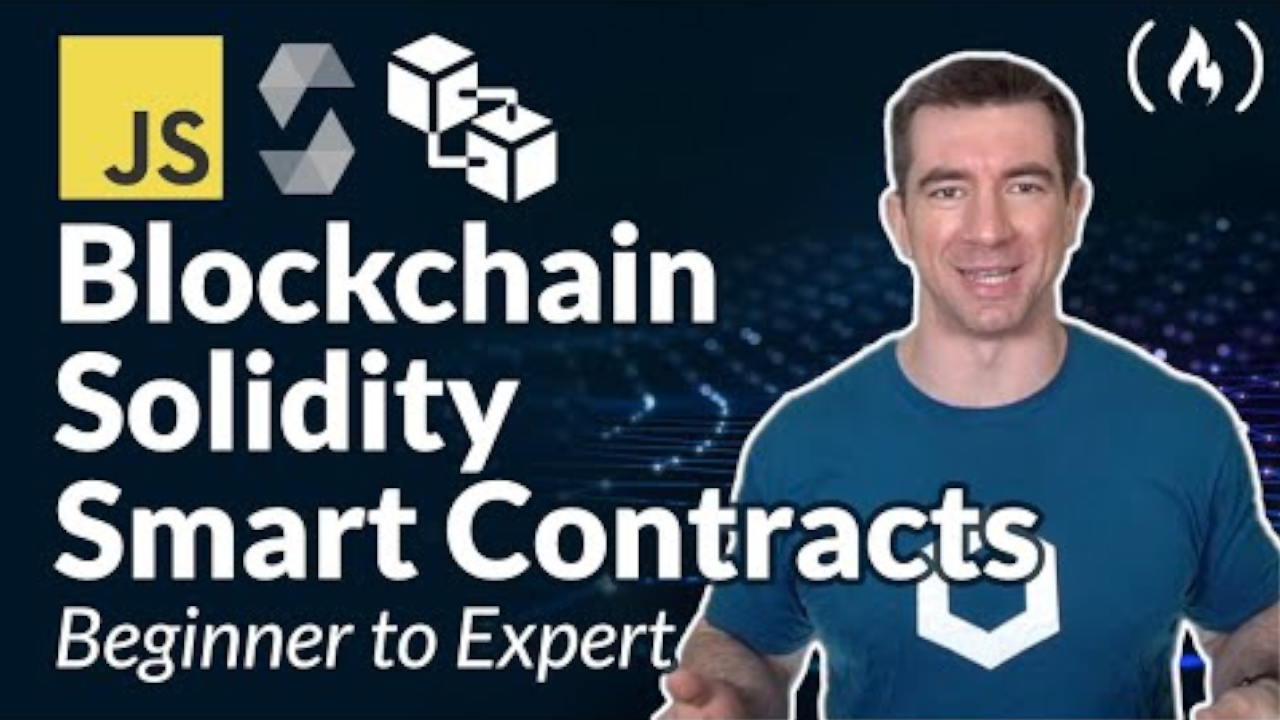
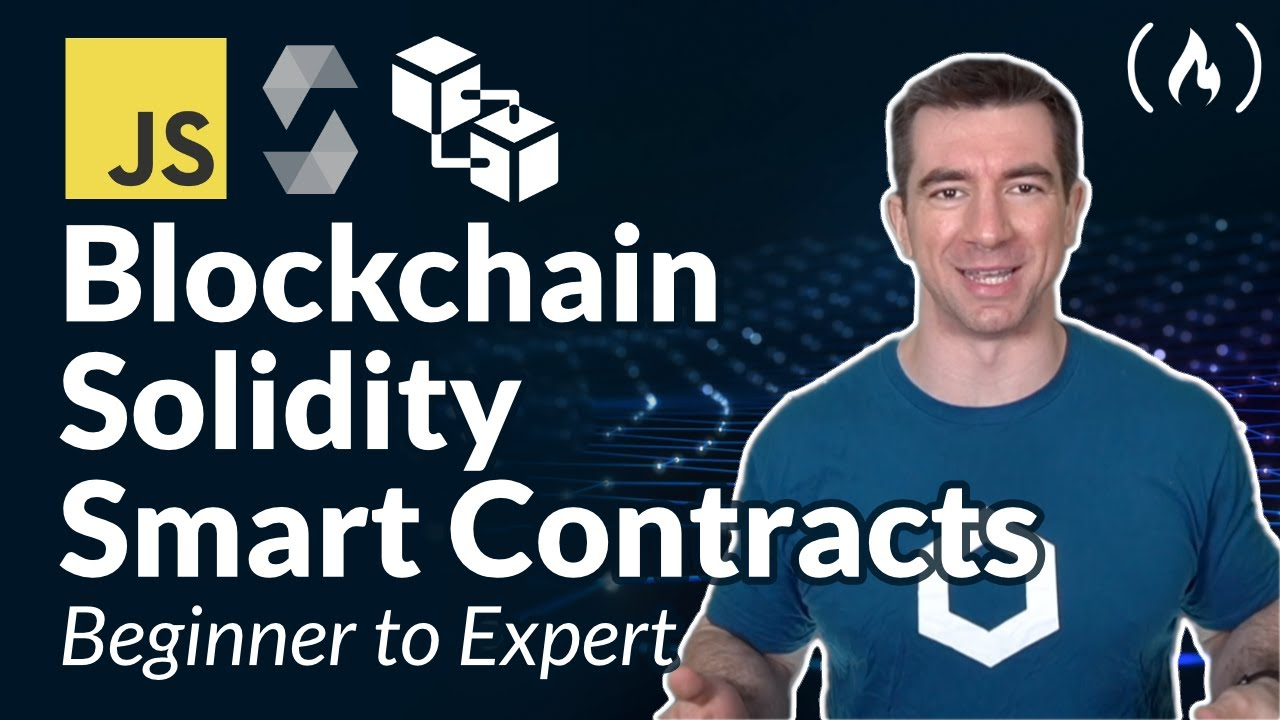
updated course images and fixed course page filters

diff --git a/app/src/pages/profiles/[username].tsx b/app/src/pages/profiles/[username].tsx
@@ -274,16 +274,16 @@ const UserProfile: NextPage = () => {
       />
       <nav className="flex items-center justify-center space-x-10 border border-main-gray-dark">
         <Link href="#events">
-          <p className="p-2">Events</p>
+          <p className="p-2 hover:cursor-pointer">Events</p>
         </Link>
         <Link href="#projects">
-          <p className="p-2">Projects</p>
+          <p className="p-2 hover:cursor-pointer">Projects</p>
         </Link>
         <Link href="#path">
-          <p className="p-2">Learning Path</p>
+          <p className="p-2 hover:cursor-pointer">Learning Path</p>
         </Link>
         <Link href="#roadmap">
-          <p className="p-2">Personal Roadmap</p>
+          <p className="p-2 hover:cursor-pointer">Personal Roadmap</p>
         </Link>
       </nav>
       {/* Hero section */}
@@ -548,10 +548,6 @@ const UserProfile: NextPage = () => {
               Advanced{' '}
               {roadmapCourses.advanced.filter((f) => f?.completed).length || 0}{' '}
               / {roadmapCourses.advanced.length || 0}
-            </p>
-            <p>
-              Lorem ipsum dolor sit amet consectetur adipisicing elit. Atque
-              ipsam praesentium esse!
             </p>
             <button className="self-start rounded-md bg-main-gray-light px-12 py-2 font-semibold">
               Take final test

diff --git a/app/src/pages/courses/index.tsx b/app/src/pages/courses/index.tsx
@@ -10,7 +10,7 @@ const Courses = () => {
     // { take: COURSES_HOME_ITEMS },
   ]);
 
-  const filterTags = ['blockchain', 'web3'];
+  const filterTags = ['web2', 'web3'];
 
   const { data: tags } = trpc.useQuery(['tags.all', { tags: filterTags }]);
 
@@ -27,7 +27,7 @@ const Courses = () => {
             courses &&
             tags.map((t) => {
               const filteredCourses = courses.filter((c) =>
-                c.content.tags.filter((t2) => t2.slug === t.slug)
+                !!c.content.tags.find((t2) => t2.slug === t.slug)
               );
               if (filteredCourses)
                 return (
